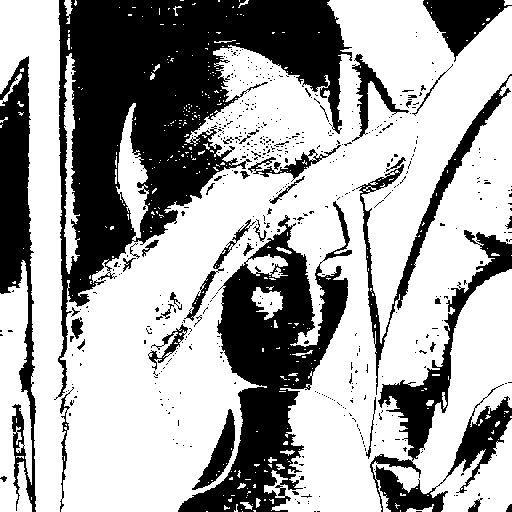
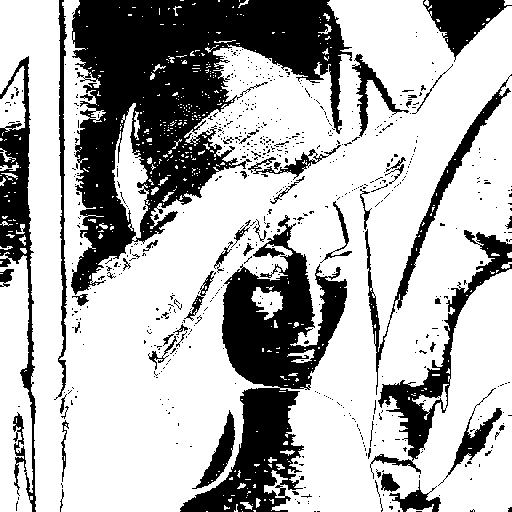
i

diff --git a/binarize/binarize.rb b/binarize/binarize.rb
@@ -40,8 +40,8 @@ end
 
 # Main part
 img = Imlib2::Image.load("srcimg/lena.jpg")
-minHue = 100.0
-maxHue = 130.0
+minHue = 105.0
+maxHue = 125.0
 maxSat = 0.52
 minBright = 0.28
 
